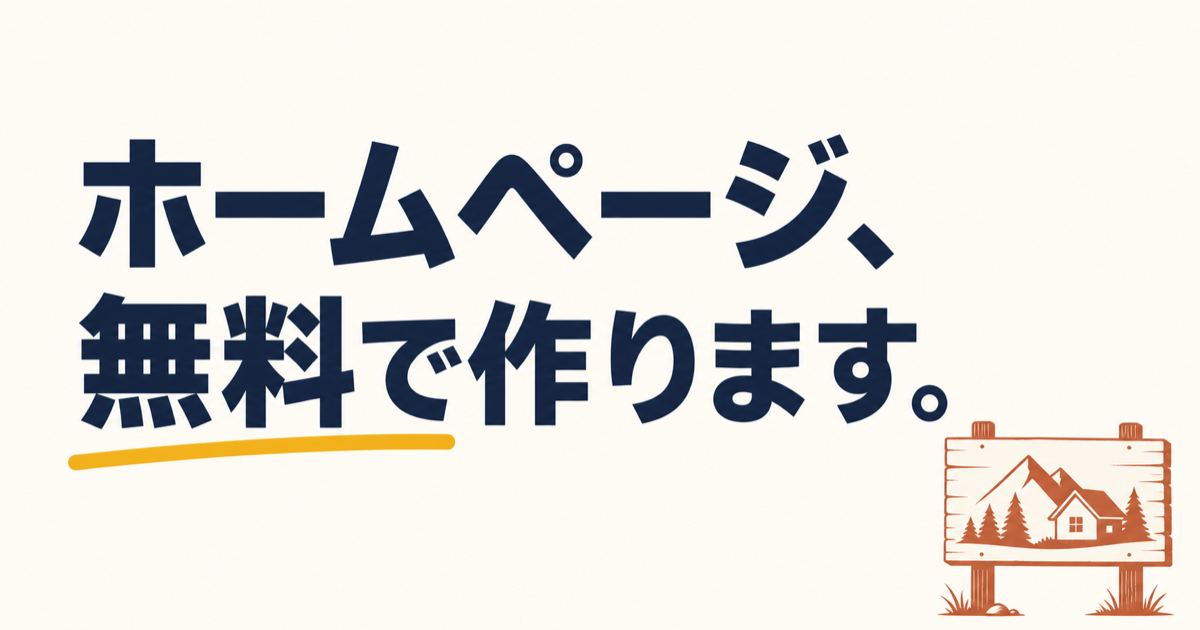
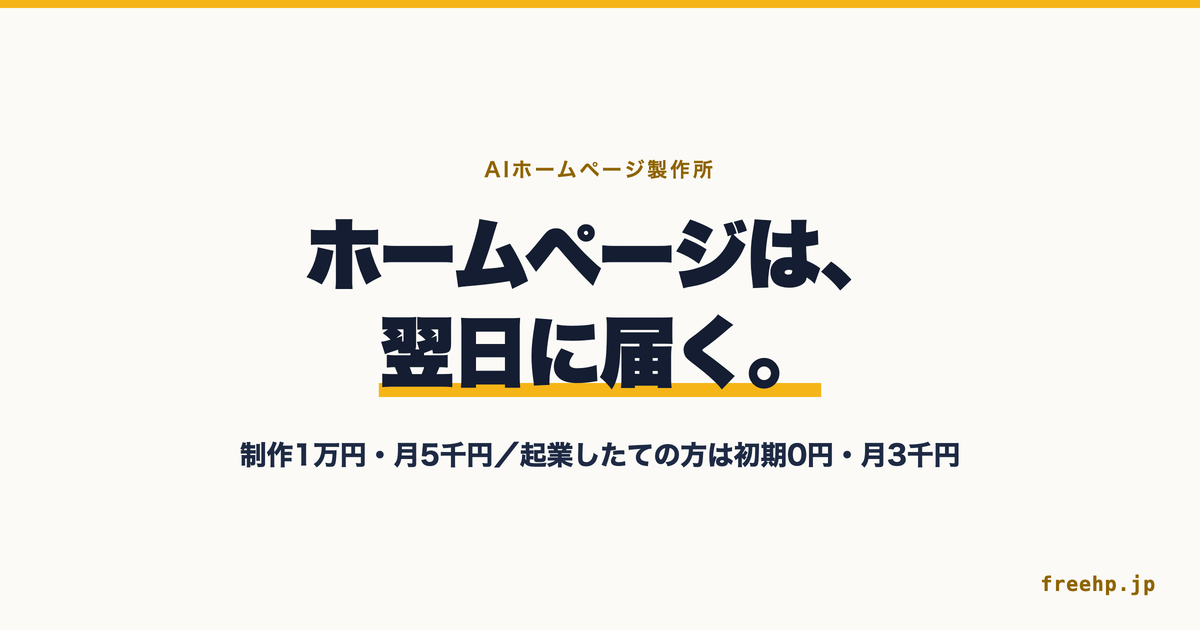
feat: OGP画像を有料化後の文言に更新（og:image復活）

Changed region(s): [[0.0308, 0.2111, 0.9867, 0.9952], [0.0, 0.0, 1.0, 0.0302]]

diff --git a/index.html b/index.html
@@ -12,9 +12,11 @@
   <meta property="og:description" content="AIで作り、人が最後に整えたホームページをお申し込みの翌日にお届けします。">
   <meta property="og:url" content="https://freehp.jp/">
   <meta property="og:locale" content="ja_JP">
+  <meta property="og:image" content="https://freehp.jp/assets/ogp.png?v=20260818">
   <meta name="twitter:card" content="summary_large_image">
   <meta name="twitter:title" content="RYOSEIWORLD ｜ ホームページは、翌日に届く。">
   <meta name="twitter:description" content="AIで作り、人が最後に整えたホームページをお申し込みの翌日にお届けします。">
+  <meta name="twitter:image" content="https://freehp.jp/assets/ogp.png?v=20260818">
   <meta name="theme-color" content="#FBFAF6">
   <!-- Googleログインのクライアント ID。空のあいだはログイン不要のまま動く。 -->
   <meta name="google-client-id" content="74818076903-rb8kqjbesn59lsn4irdd0ijgpjmum5nh.apps.googleusercontent.com">

diff --git a/guide-shuuri.html b/guide-shuuri.html
@@ -12,9 +12,11 @@
   <meta property="og:description" content="AIで作り、人が整えた修理・住まいのサービスのホームページをお申し込みの翌日にお届けします。">
   <meta property="og:url" content="https://freehp.jp/guide-shuuri.html">
   <meta property="og:locale" content="ja_JP">
+  <meta property="og:image" content="https://freehp.jp/assets/ogp.png?v=20260818">
   <meta name="twitter:card" content="summary_large_image">
   <meta name="twitter:title" content="修理・住まいのサービスのホームページを作る方法">
   <meta name="twitter:description" content="AIで作り、人が整えた修理・住まいのサービスのホームページをお申し込みの翌日にお届けします。">
+  <meta name="twitter:image" content="https://freehp.jp/assets/ogp.png?v=20260818">
   <link rel="icon" href="favicon.ico">
   <style>
     :root { --paper:#faf7f0; --ink:#1d2733; --navy:#1d3557; --yamabuki:#8f6400; --muted:#5a6b7c; }

diff --git a/guide-kaigyou.html b/guide-kaigyou.html
@@ -12,9 +12,11 @@
   <meta property="og:description" content="起業応援プランは初期0円・月3,000円（税込）。AIで作り、人が整えて翌日にお届けします。">
   <meta property="og:url" content="https://freehp.jp/guide-kaigyou.html">
   <meta property="og:locale" content="ja_JP">
+  <meta property="og:image" content="https://freehp.jp/assets/ogp.png?v=20260818">
   <meta name="twitter:card" content="summary_large_image">
   <meta name="twitter:title" content="開業したばかりでもホームページを持つ方法">
   <meta name="twitter:description" content="起業応援プランは初期0円・月3,000円（税込）。AIで作り、人が整えて翌日にお届けします。">
+  <meta name="twitter:image" content="https://freehp.jp/assets/ogp.png?v=20260818">
   <link rel="icon" href="favicon.ico">
   <style>
     :root { --paper:#faf7f0; --ink:#1d2733; --navy:#1d3557; --yamabuki:#8f6400; --muted:#5a6b7c; }

diff --git a/guide-kyoshitsu.html b/guide-kyoshitsu.html
@@ -12,9 +12,11 @@
   <meta property="og:description" content="AIで作り、人が整えた教室・スクールのホームページをお申し込みの翌日にお届けします。">
   <meta property="og:url" content="https://freehp.jp/guide-kyoshitsu.html">
   <meta property="og:locale" content="ja_JP">
+  <meta property="og:image" content="https://freehp.jp/assets/ogp.png?v=20260818">
   <meta name="twitter:card" content="summary_large_image">
   <meta name="twitter:title" content="教室・スクールのホームページを作る方法">
   <meta name="twitter:description" content="AIで作り、人が整えた教室・スクールのホームページをお申し込みの翌日にお届けします。">
+  <meta name="twitter:image" content="https://freehp.jp/assets/ogp.png?v=20260818">
   <link rel="icon" href="favicon.ico">
   <style>
     :root { --paper:#faf7f0; --ink:#1d2733; --navy:#1d3557; --yamabuki:#8f6400; --muted:#5a6b7c; }

diff --git a/guide-seitai.html b/guide-seitai.html
@@ -12,9 +12,11 @@
   <meta property="og:description" content="AIで作り、人が整えた整体院・接骨院のホームページをお申し込みの翌日にお届けします。">
   <meta property="og:url" content="https://freehp.jp/guide-seitai.html">
   <meta property="og:locale" content="ja_JP">
+  <meta property="og:image" content="https://freehp.jp/assets/ogp.png?v=20260818">
   <meta name="twitter:card" content="summary_large_image">
   <meta name="twitter:title" content="整体院・接骨院のホームページを作る方法">
   <meta name="twitter:description" content="AIで作り、人が整えた整体院・接骨院のホームページをお申し込みの翌日にお届けします。">
+  <meta name="twitter:image" content="https://freehp.jp/assets/ogp.png?v=20260818">
   <link rel="icon" href="favicon.ico">
   <style>
     :root { --paper:#faf7f0; --ink:#1d2733; --navy:#1d3557; --yamabuki:#8f6400; --muted:#5a6b7c; }

diff --git a/guide-biyou.html b/guide-biyou.html
@@ -12,9 +12,11 @@
   <meta property="og:description" content="AIで作り、人が整えた美容室・サロンのホームページをお申し込みの翌日にお届けします。">
   <meta property="og:url" content="https://freehp.jp/guide-biyou.html">
   <meta property="og:locale" content="ja_JP">
+  <meta property="og:image" content="https://freehp.jp/assets/ogp.png?v=20260818">
   <meta name="twitter:card" content="summary_large_image">
   <meta name="twitter:title" content="美容室・サロンのホームページを作る方法">
   <meta name="twitter:description" content="AIで作り、人が整えた美容室・サロンのホームページをお申し込みの翌日にお届けします。">
+  <meta name="twitter:image" content="https://freehp.jp/assets/ogp.png?v=20260818">
   <link rel="icon" href="favicon.ico">
   <style>
     :root { --paper:#faf7f0; --ink:#1d2733; --navy:#1d3557; --yamabuki:#8f6400; --muted:#5a6b7c; }

diff --git a/guide-kouri.html b/guide-kouri.html
@@ -12,9 +12,11 @@
   <meta property="og:description" content="AIで作り、人が整えた小売店・雑貨店のホームページをお申し込みの翌日にお届けします。">
   <meta property="og:url" content="https://freehp.jp/guide-kouri.html">
   <meta property="og:locale" content="ja_JP">
+  <meta property="og:image" content="https://freehp.jp/assets/ogp.png?v=20260818">
   <meta name="twitter:card" content="summary_large_image">
   <meta name="twitter:title" content="小売店・雑貨店のホームページを作る方法">
   <meta name="twitter:description" content="AIで作り、人が整えた小売店・雑貨店のホームページをお申し込みの翌日にお届けします。">
+  <meta name="twitter:image" content="https://freehp.jp/assets/ogp.png?v=20260818">
   <link rel="icon" href="favicon.ico">
   <style>
     :root { --paper:#faf7f0; --ink:#1d2733; --navy:#1d3557; --yamabuki:#8f6400; --muted:#5a6b7c; }

diff --git a/hikaku.html b/hikaku.html
@@ -12,9 +12,11 @@
   <meta property="og:description" content="費用の条件・広告の有無・向いている人を、各社公式情報で正直に比較しました。">
   <meta property="og:url" content="https://freehp.jp/hikaku.html">
   <meta property="og:locale" content="ja_JP">
+  <meta property="og:image" content="https://freehp.jp/assets/ogp.png?v=20260818">
   <meta name="twitter:card" content="summary_large_image">
   <meta name="twitter:title" content="ホームページ作成サービスをくらべる（2026年8月版）">
   <meta name="twitter:description" content="費用の条件・広告の有無・向いている人を、各社公式情報で正直に比較しました。">
+  <meta name="twitter:image" content="https://freehp.jp/assets/ogp.png?v=20260818">
   <link rel="icon" href="favicon.ico">
   <style>
     :root { --paper:#faf7f0; --ink:#1d2733; --navy:#1d3557; --yamabuki:#8f6400; --muted:#5a6b7c; }

diff --git a/partner.html b/partner.html
@@ -12,9 +12,11 @@
   <meta property="og:description" content="売上の60%をパートナー、40%をRYOSEIWORLDで分配する制度です。生成数は鍵ごとに自動記録されます。">
   <meta property="og:url" content="https://freehp.jp/partner.html">
   <meta property="og:locale" content="ja_JP">
+  <meta property="og:image" content="https://freehp.jp/assets/ogp.png?v=20260818">
   <meta name="twitter:card" content="summary_large_image">
   <meta name="twitter:title" content="町のお店に、翌日届くホームページを届けるパートナー募集">
   <meta name="twitter:description" content="売上の60%をパートナー、40%をRYOSEIWORLDで分配する制度です。">
+  <meta name="twitter:image" content="https://freehp.jp/assets/ogp.png?v=20260818">
   <link rel="icon" href="favicon.ico">
   <style>
     :root { --paper:#faf7f0; --ink:#1d2733; --navy:#1d3557; --yamabuki:#8f6400; --muted:#5a6b7c; }

diff --git a/guide-inshoku.html b/guide-inshoku.html
@@ -12,9 +12,11 @@
   <meta property="og:description" content="AIで作り、人が整えた飲食店のホームページをお申し込みの翌日にお届けします。">
   <meta property="og:url" content="https://freehp.jp/guide-inshoku.html">
   <meta property="og:locale" content="ja_JP">
+  <meta property="og:image" content="https://freehp.jp/assets/ogp.png?v=20260818">
   <meta name="twitter:card" content="summary_large_image">
   <meta name="twitter:title" content="飲食店のホームページを作る方法">
   <meta name="twitter:description" content="AIで作り、人が整えた飲食店のホームページをお申し込みの翌日にお届けします。">
+  <meta name="twitter:image" content="https://freehp.jp/assets/ogp.png?v=20260818">
   <link rel="icon" href="favicon.ico">
   <style>
     :root { --paper:#faf7f0; --ink:#1d2733; --navy:#1d3557; --yamabuki:#8f6400; --muted:#5a6b7c; }

diff --git a/domain-guide.html b/domain-guide.html
@@ -12,7 +12,9 @@
   <meta property="og:description" content="初回＋10,000円（税込）で、取得・接続作業と初年度取得費を含みます。名義はお店ご自身のものになります。">
   <meta property="og:url" content="https://freehp.jp/domain-guide.html">
   <meta property="og:locale" content="ja_JP">
+  <meta property="og:image" content="https://freehp.jp/assets/ogp.png?v=20260818">
   <meta name="twitter:card" content="summary_large_image">
+  <meta name="twitter:image" content="https://freehp.jp/assets/ogp.png?v=20260818">
   <link rel="icon" href="favicon.ico">
   <style>
     :root { --paper:#faf7f0; --ink:#1d2733; --navy:#1d3557; --yamabuki:#8f6400; --muted:#5a6b7c; }

diff --git a/domain.html b/domain.html
@@ -12,7 +12,9 @@
   <meta property="og:description" content="初回＋10,000円（税込）で、独自ドメインの取得・接続作業と初年度取得費を含みます。">
   <meta property="og:url" content="https://freehp.jp/domain.html">
   <meta property="og:locale" content="ja_JP">
+  <meta property="og:image" content="https://freehp.jp/assets/ogp.png?v=20260818">
   <meta name="twitter:card" content="summary_large_image">
+  <meta name="twitter:image" content="https://freehp.jp/assets/ogp.png?v=20260818">
   <meta name="theme-color" content="#FBFAF6">
   <link rel="icon" href="favicon.ico" type="image/x-icon">
   <link rel="preconnect" href="https://fonts.googleapis.com">
